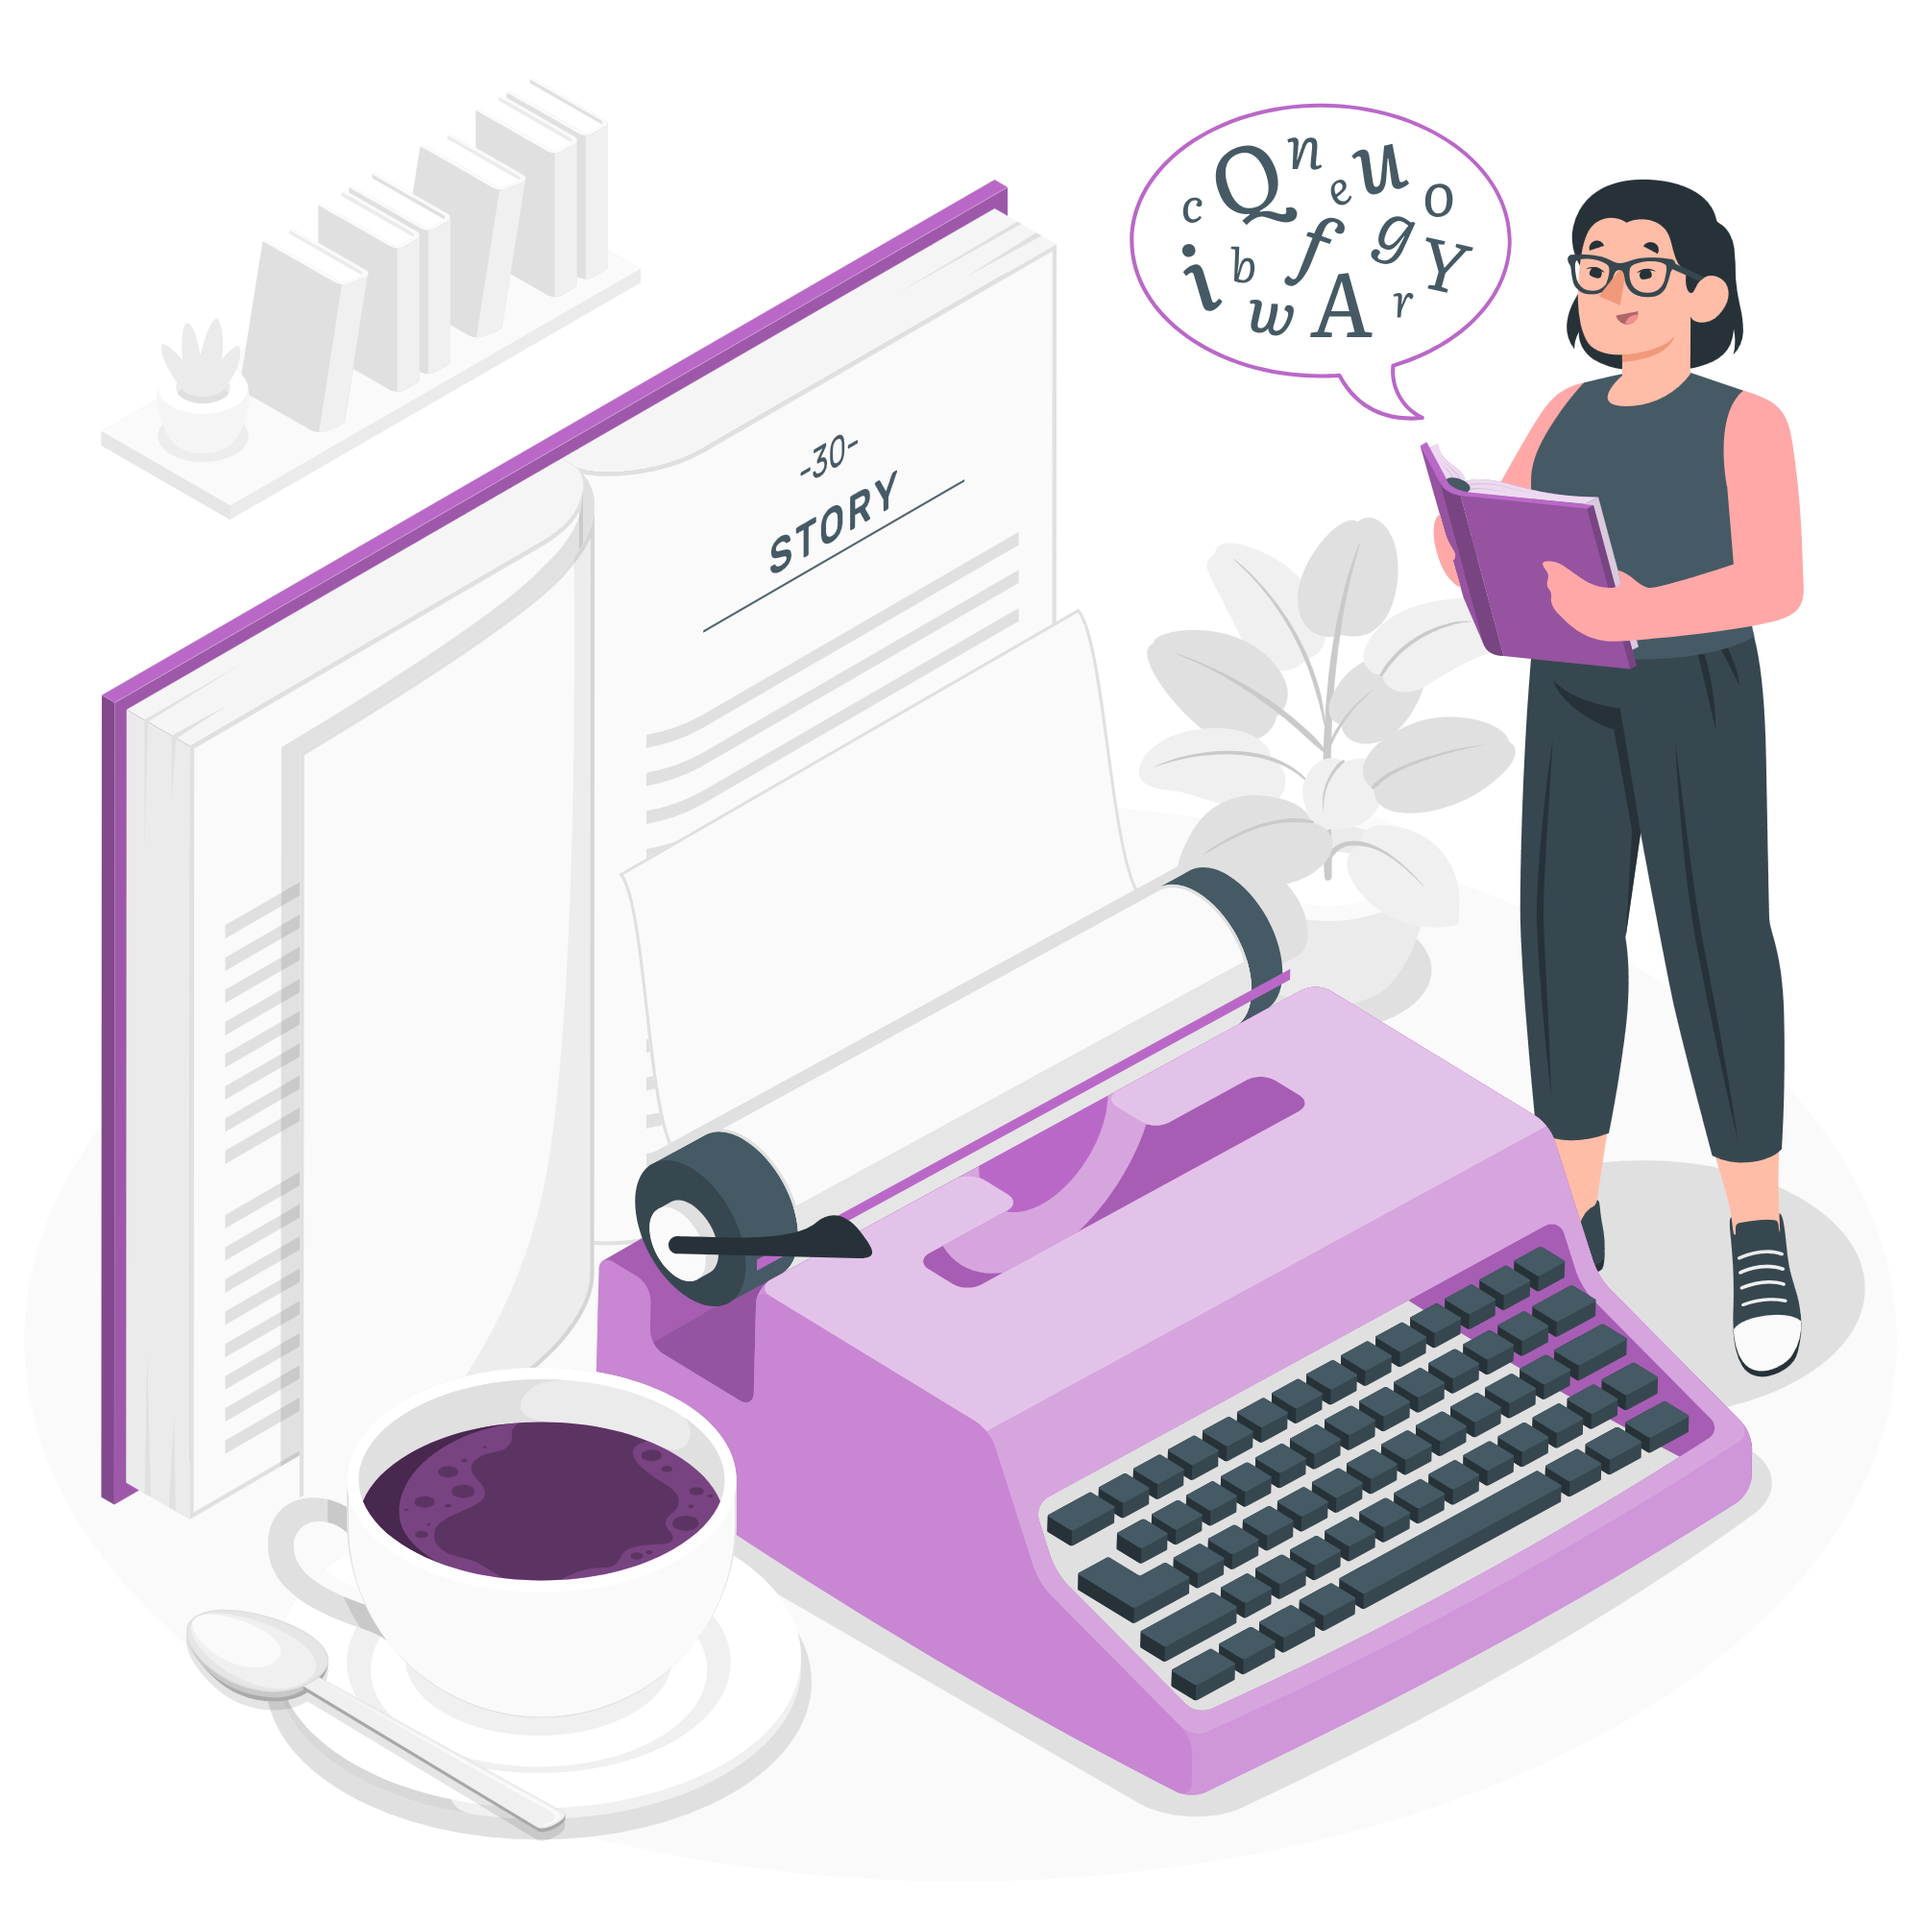
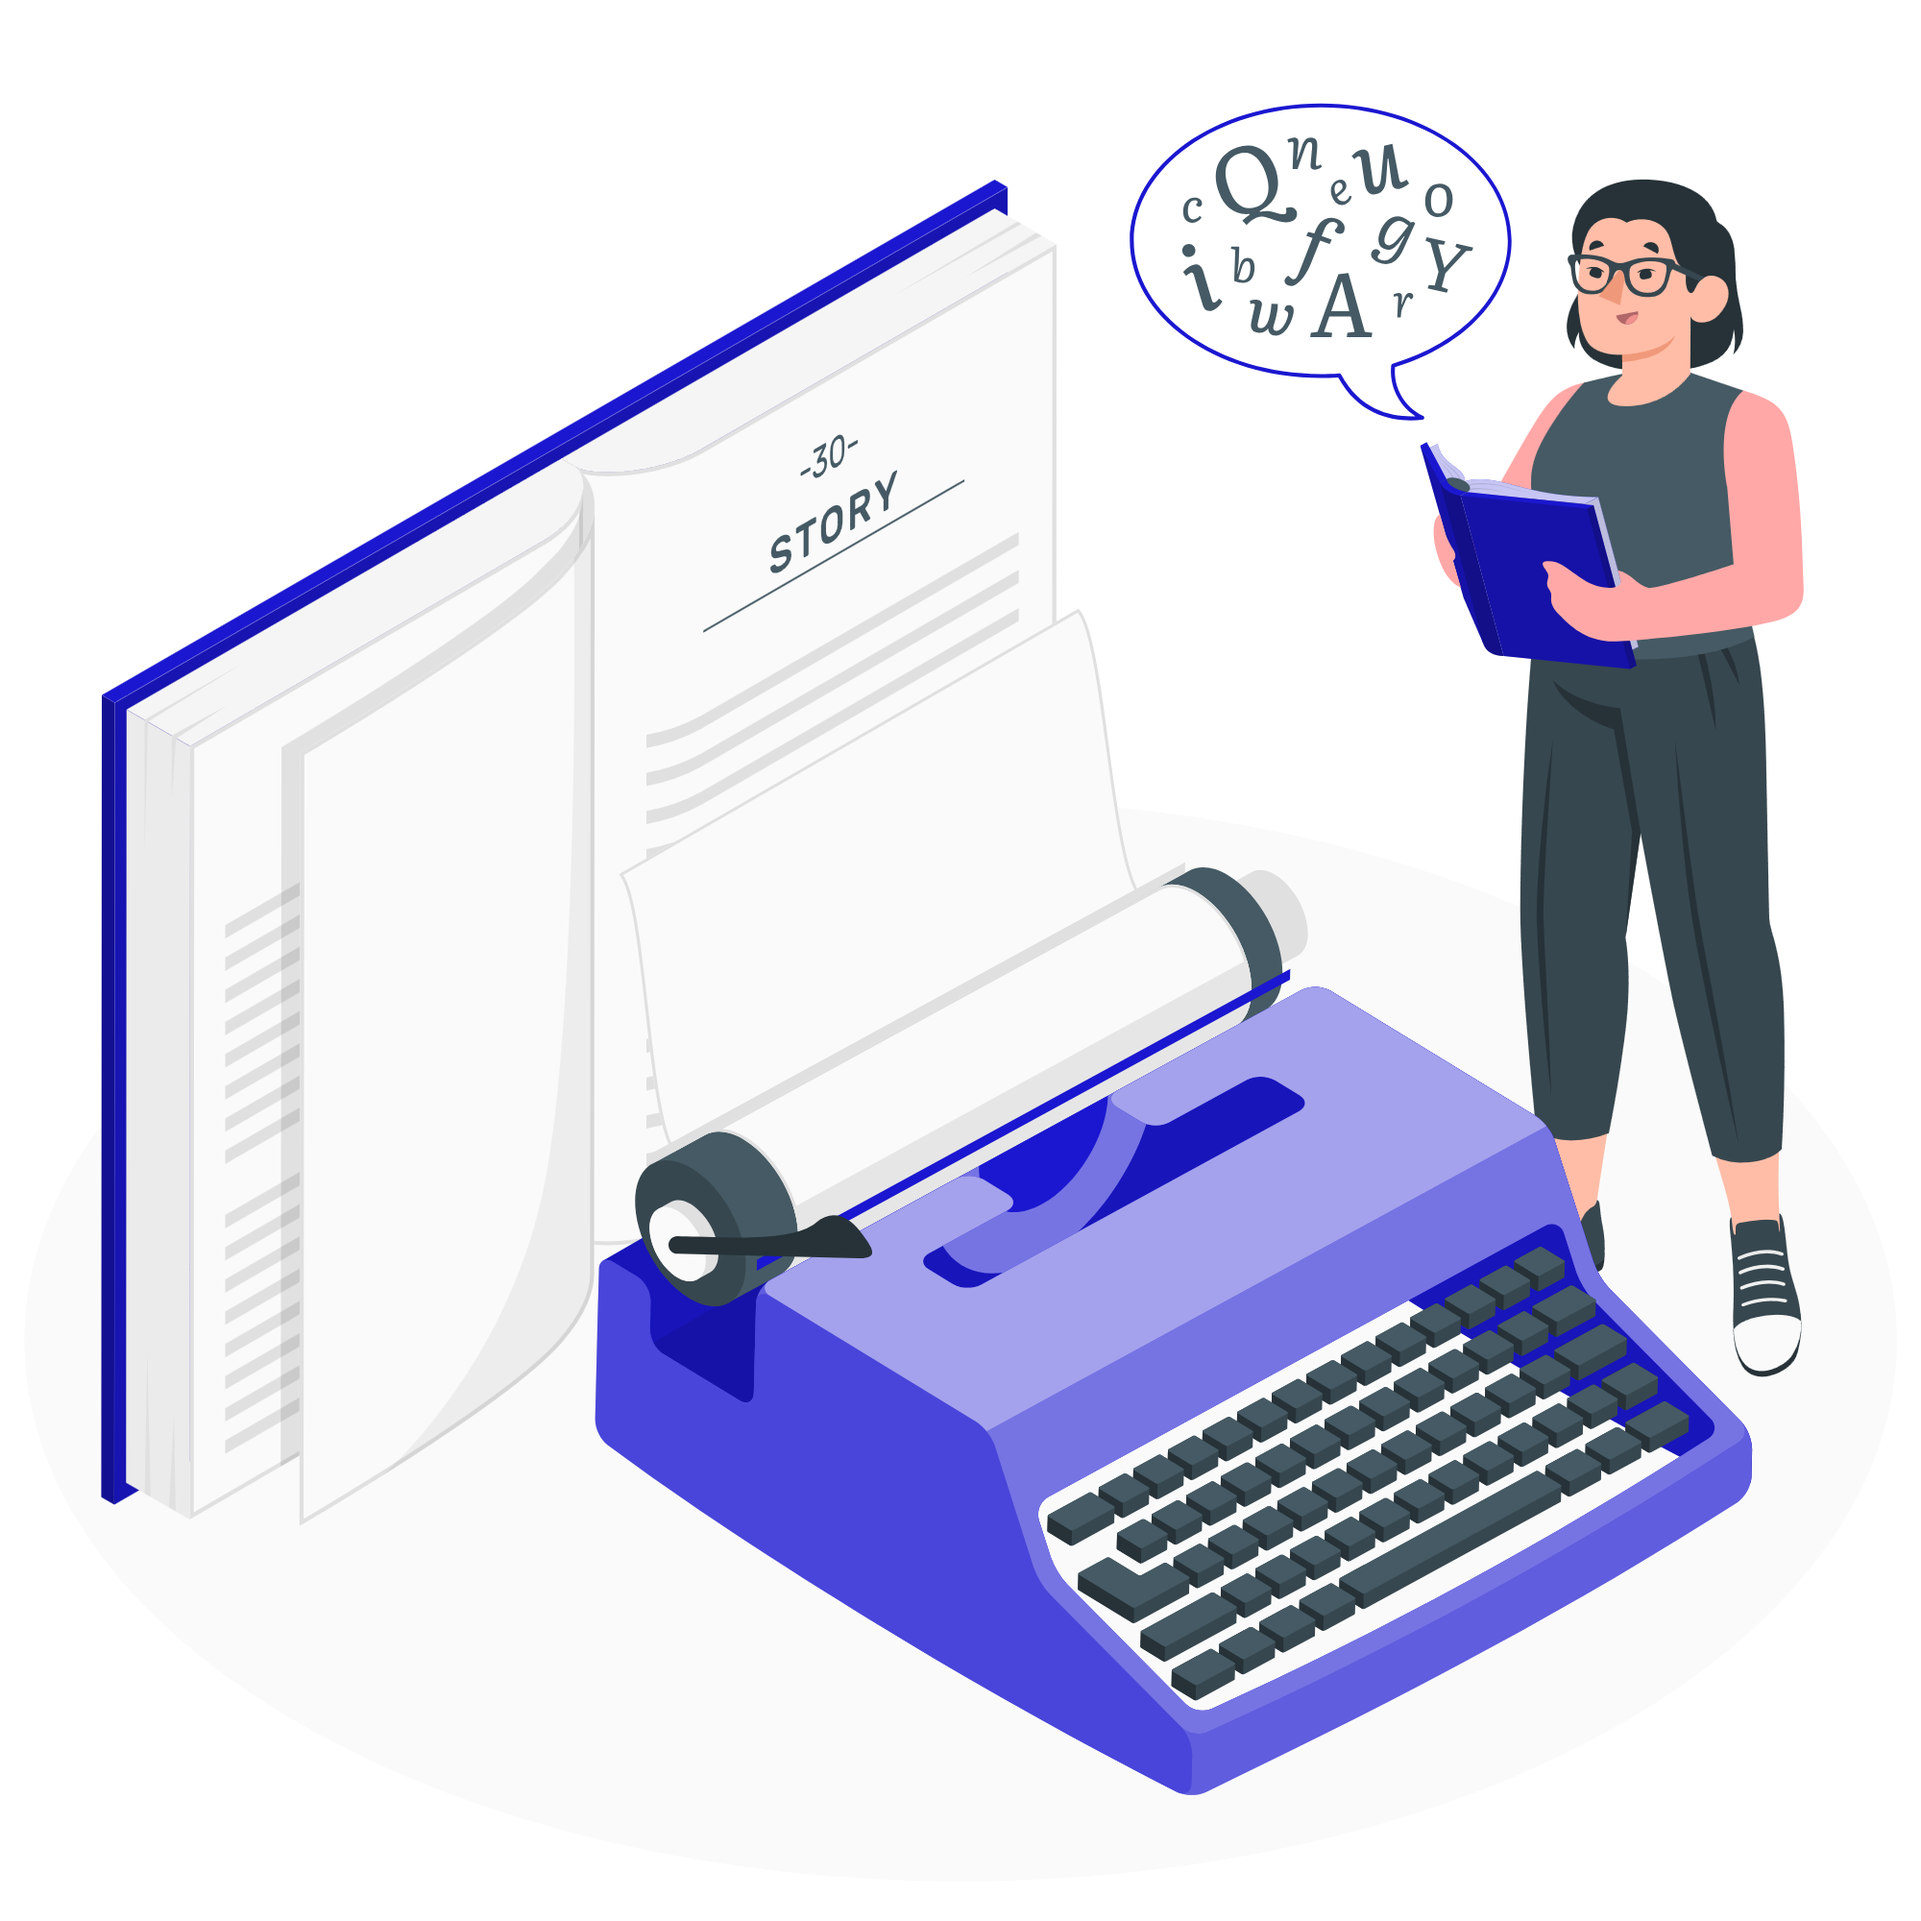
add asset for videogame project

diff --git a/constants/theme.ts b/constants/theme.ts
@@ -67,13 +67,14 @@ export const Themes = {
 } as const;
 
 export const ProjectsColors = {
-  book: "rgba(126, 44, 180, 1)",
+  book: "#1b17d0",
   music: "rgba(23, 184, 166, 1)",
   photography: "rgba(184, 22, 128, 1)",
   videoFiction: "rgba(255, 193, 0, 1)",
   cooking: "rgba(255, 114, 94, 1)",
   videoInternet: "rgba(130, 200, 104, 1)",
   boardgame: "rgba(197, 63, 63, 1)",
+  videogame: "#543D9A",
 } as const;
 
 export type ProjectKey = keyof typeof ProjectsColors;
@@ -87,6 +88,7 @@ export const getProjectColor = (label: string, opacity: number = 1): string => {
     Cooking: "cooking",
     "Internet Video": "videoInternet",
     "Board Game": "boardgame",
+    "Video Game": "videogame",
   };
 
   const key = map[label] || "book";
